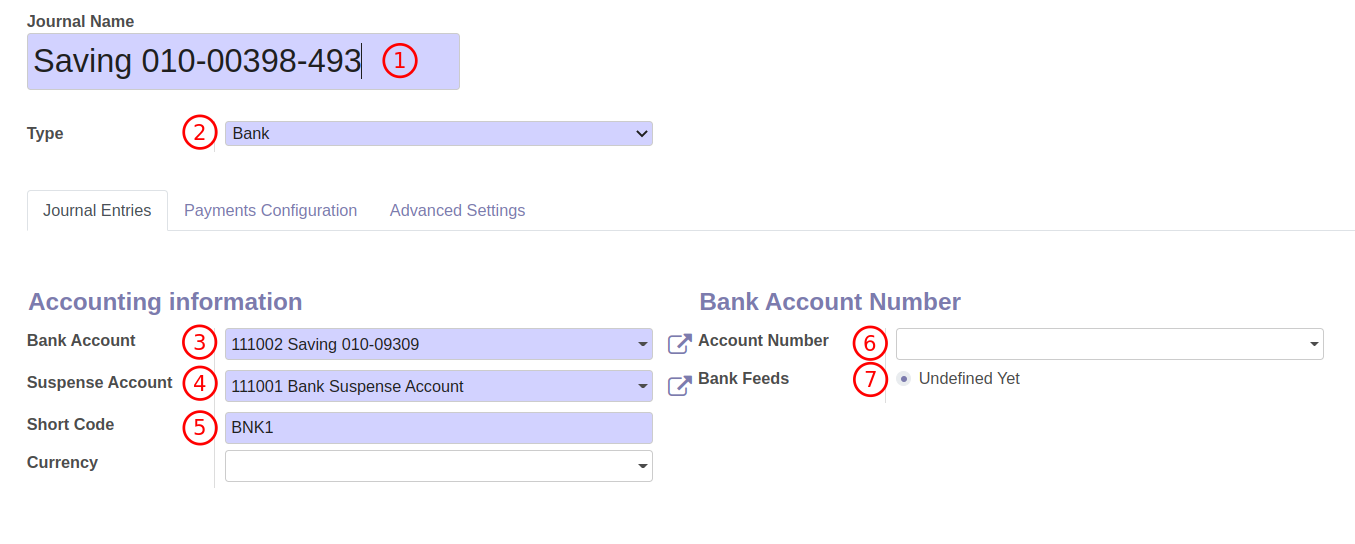
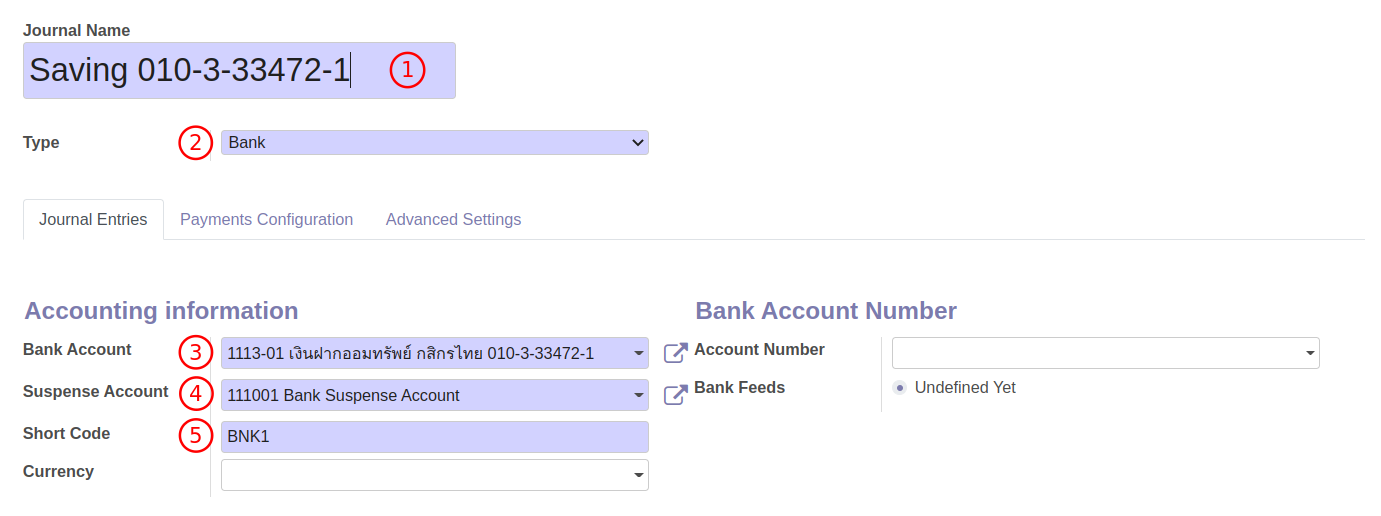
update

diff --git a/docs/Accounting/ac12_report.md b/docs/Accounting/ac12_report.md
@@ -9,6 +9,7 @@
 3. Trial Balance สำหรับเรียกดูงบทดลอง
 4. Open Items สำหรับดูยอดคงค้าง
 5. Aged Partner Balance รายงานอายุลูกหนี้เจ้าหนี้
+6. ทะเบียนสินทรัพย์
 
 -----------------------------------------------------------------
 
@@ -83,7 +84,7 @@
     * (7) Filter: เลือกรหัสบัญชีที่ต้องการ (หากต้องการดูทั้งหมดไม่ต้องเลือก)
 ![](img/gl_1.png)
 
-2. หลังจากใส่เงื่อนไขการเรียกดุรายงานเรียบร้อยแล้ว สามารถกดปุ่ม
+2. หลังจากใส่เงื่อนไขการเรียกดูรายงานเรียบร้อยแล้ว สามารถกดปุ่ม
     * (1) View: เพื่อดูรายงานในหน้าระบบ
     * (2) Export PDF: เพื่อ Export รายงานเป็น PDF
     * (3) Export XLSX: เพื่อ Export รายงานเป็น Excel
@@ -113,7 +114,7 @@
     * (11) เลือกรหัสบัญชีที่ต้องการ (หากต้องการดูทั้งหมดไม่ต้องเลือก)
     ![](img/tb_1.png)
 
-2. หลังจากใส่เงื่อนไขการเรียกดุรายงานเรียบร้อยแล้ว สามารถกดปุ่ม
+2. หลังจากใส่เงื่อนไขการเรียกดูรายงานเรียบร้อยแล้ว สามารถกดปุ่ม
     * (1) View: เพื่อดูรายงานในหน้าระบบ
     * (2) Export PDF: เพื่อ Export รายงานเป็น PDF
     * (3) Export XLSX: เพื่อ Export รายงานเป็น Excel
@@ -136,7 +137,7 @@
     * (6) เลือกรหัสบัญชีที่ต้องการ (หากต้องการดูทั้งหมดไม่ต้องเลือก)
 ![](img/op_1.png)
 
-2. หลังจากใส่เงื่อนไขการเรียกดุรายงานเรียบร้อยแล้ว สามารถกดปุ่ม
+2. หลังจากใส่เงื่อนไขการเรียกดูรายงานเรียบร้อยแล้ว สามารถกดปุ่ม
     * (1) View: เพื่อดูรายงานในหน้าระบบ
     * (2) Export PDF: เพื่อ Export รายงานเป็น PDF
     * (3) Export XLSX: เพื่อ Export รายงานเป็น Excel
@@ -157,13 +158,31 @@
     * (4) เลือกรหัสบัญชีที่ต้องการ (หากต้องการดูทั้งหมดไม่ต้องเลือก)
 ![](img/apb_1.png)
 
-2. หลังจากใส่เงื่อนไขการเรียกดุรายงานเรียบร้อยแล้ว สามารถกดปุ่ม
+2. หลังจากใส่เงื่อนไขการเรียกดูรายงานเรียบร้อยแล้ว สามารถกดปุ่ม
     * (1) View: เพื่อดูรายงานในหน้าระบบ
     * (2) Export PDF: เพื่อ Export รายงานเป็น PDF
     * (3) Export XLSX: เพื่อ Export รายงานเป็น Excel
 ![](img/gl_2.png)
 
+--------------------------------------
+
+## 6. Financial Assets report
+
+**Menu ::** Invoicing > Reporting > Aged Partner Balance
+
+1. ระบบจะแสดงหน้าต่างเงื่อนไขการเรียกรายงานดังนี้
+    * (1) Asset Group: กลุ่มของสินทรัพย์
+    * (2) Asset Profiles: หมวดหมู่สินทรัพย์ (ถ้าไม่เลือกแสดงว่าเอาทั้งหมด)
+    * (3) Start Date: วันที่ต้องการดูรายงาน
+    * (4) End Date: วันที่สิ้นการเรียกรายงาน
+    * (5) Include draft assets: รวมสินทรัพย์ที่มีสถานะ draft
+![](img/fix_1.png)
+
+2. หลังจากใส่เงื่อนไขการเรียกดูรายงานเรียบร้อยแล้ว สามารถกดปุ่ม Generate Report
+![](img/fix_2.png)
+
 
 End. 
 
 --------------------------------------
+

diff --git a/docs/Accounting/ac01_masterdata.md b/docs/Accounting/ac01_masterdata.md
@@ -90,8 +90,6 @@
     * (3) Bank Account: ระบุเลขที่บัญชีที่ใช้บันทึกบัญชี
     * (4) Suspense Account: บัญชีพักธนาคาร ใช้สำหรับการบันทึกในกรณีโอนเงินระหว่างธนาคาร
     * (5) Short Code: รหัสของสมุดรายวัน
-    * (6) Account Number: เลขที่บัญชีธนาคาร
-    * (7) Bank Feeds: การตั้งค่าสกุลไฟล์ในการนำเข้า
     ![](img/journal_1.png)
 
 2. กรอกข้อมูลสำหรับบัญชีพักที่เพิ่มเติม Tab "Payments Configuration"
@@ -101,6 +99,18 @@
 
 
 3. หากตั้งค่าเรียบร้อยแล้วให้กด Save
+
+!!! Tip "วิธีการสร้าง Bank Account จากหน้าต่าง Journals"
+    * (1) พิมพ์ชื่อ เลขบัญชีที่บรรทัด **Bank Account**
+        ![](img/journal_3.png)
+    * (2) กด Create and Edit
+        ![](img/journal_4.png)
+    * (3) ระบบจะแสดงหน้าต่างให้กรอกข้อมูลเพิ่ม
+        * (1) Code: เลขที่บัญชีที่ต้องการเพิ่มข้อมูล
+        * (2) Account Name: ชื่อเลขที่บัญชี
+        * (3) Type: ประเภทของเลขที่บัญชี
+        ![](img/journal_5.png)
+    * (4) กด Save เพื่อบันทึกการสร้างรหัสบัญชี
 
 ----------------------------------------------------------
 
